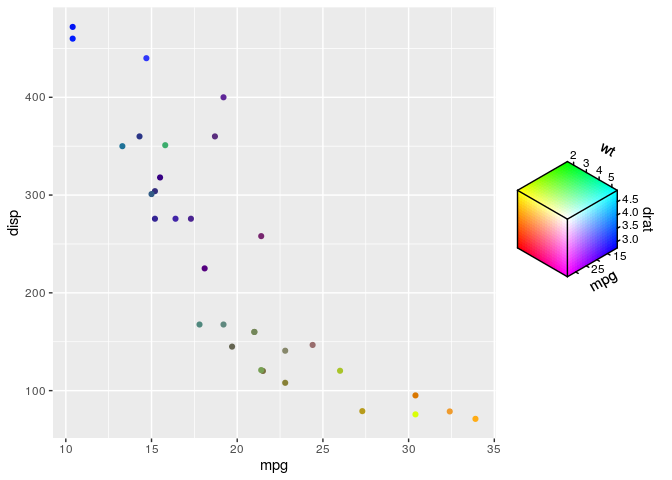
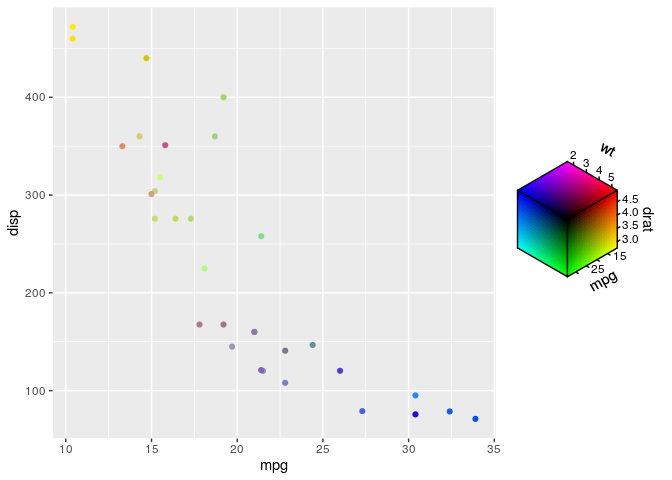
Expand documentation (examples etc.)

diff --git a/README.md b/README.md
@@ -1,7 +1,7 @@
 
 <!-- README.md is generated from README.Rmd. Please edit that file -->
 
-# ggchromatic
+# ggchromatic <img src='man/figures/logo.png' align="right" height="138" />
 
 */ʤiː-ʤiːkrəʊˈmætɪk/*
 
@@ -18,6 +18,9 @@ number of variables to different colour spaces with the ‘farver’
 package. The package introduces ‘chromatic scales’, a term mirroring
 music terms. In music, chromatic scales cover all 12 notes. In
 ggchromatic, a chromatic scale can cover all channels in colour space.
+Admittedly, colour spaces might not be the most intuitive tool for
+interpreting a data visualisation, but can be useful for visualising
+less strict data impressions.
 
 ## Installation
 
@@ -40,7 +43,7 @@ library(ggchromatic)
 #> Loading required package: ggplot2
 
 ggplot(mtcars, aes(mpg, disp)) +
-  geom_point(aes(colour = rgb_spec(mpg, drat, wt)))
+  geom_point(aes(colour = cmy_spec(mpg, drat, wt)))
 ```
 
 <img src="man/figures/README-unnamed-chunk-2-1.png" width="100%" />
@@ -50,9 +53,7 @@ the HSV scale below.
 
 ``` r
 df <- data.frame(
-  x = as.vector(row(volcano)),
-  y = as.vector(col(volcano)),
-  z = as.vector(volcano)
+  x = c(row(volcano)), y = c(col(volcano)), z = c(volcano)
 )
 
 ggplot(df, aes(x, y, fill = hsv_spec(z, x, y))) +
@@ -64,3 +65,36 @@ ggplot(df, aes(x, y, fill = hsv_spec(z, x, y))) +
 ```
 
 <img src="man/figures/README-unnamed-chunk-3-1.png" width="100%" />
+
+Perhaps a use-case for chromatic scales is when the interpretation of a
+variable isn’t directly related to a property of the data points. For
+example, embeddings project data into a new space which might preserve
+some properties, such as distance between data points, but wherein
+dimensions of the new space are meaningless on their own. You can use a
+chromatic scale to map the embedding to colours, which can give a neat
+‘flavour’ to the data points through colour.
+
+``` r
+if (requireNamespace("umap")) {
+  set.seed(42)
+
+  # Project the iris dataset into 3D UMAP space
+  config <- umap::umap.defaults
+  config$n_components <- 3
+  umap_3d <- umap::umap(iris[, 1:4], config)$layout
+  
+  df <- data.frame(
+    SL = iris$Sepal.Length,
+    SW = iris$Petal.Width,
+    x = umap_3d[, 1],
+    y = umap_3d[, 2],
+    z = umap_3d[, 3]
+  )
+  
+  ggplot(df, aes(SL, SW)) +
+    geom_point(aes(colour = rgb_spec(x, y, z)))
+}
+#> Loading required namespace: umap
+```
+
+<img src="man/figures/README-unnamed-chunk-4-1.png" width="100%" />
